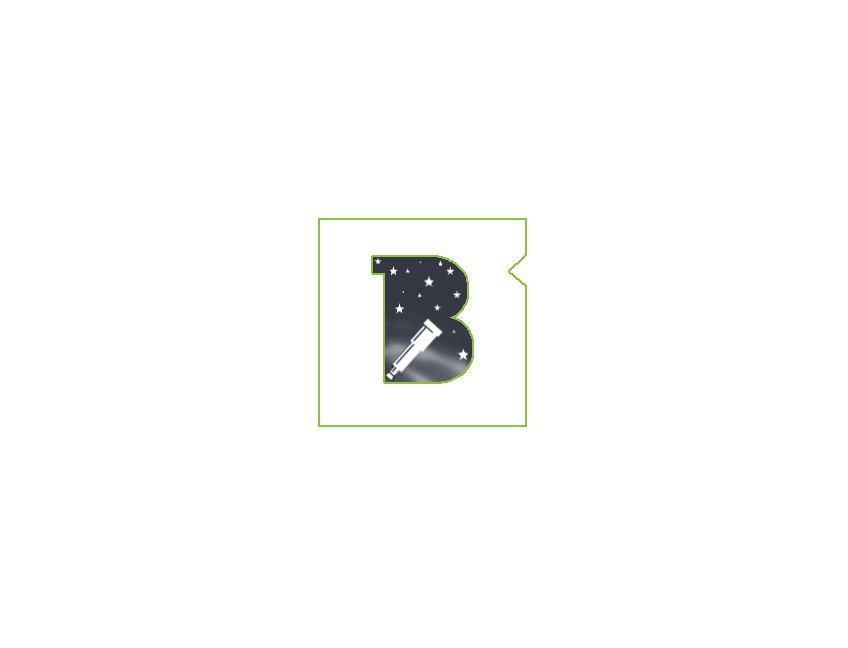
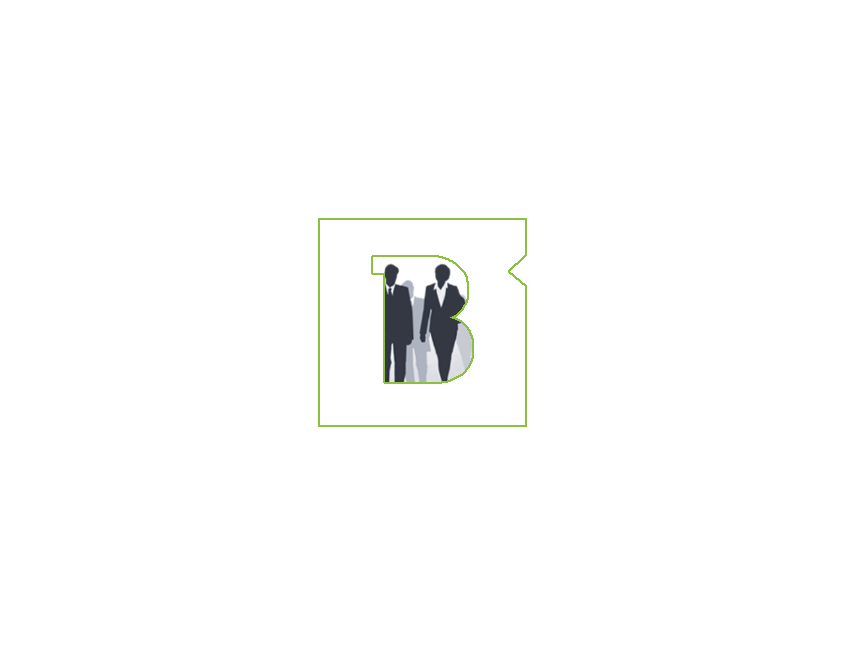
replacing screenshot because i care about these things

Changed region(s): [[0.4292, 0.3704, 0.5825, 0.5864]]

diff --git a/style.css b/style.css
@@ -1,5 +1,5 @@
 /******************************************************************
-Theme Name: Expanse
+Theme Name: Business Time!
 Description: I don't know. ...I just don't know
 Author: Yvonne Tse
 Author URI: http://www.yvonnetse.com/
